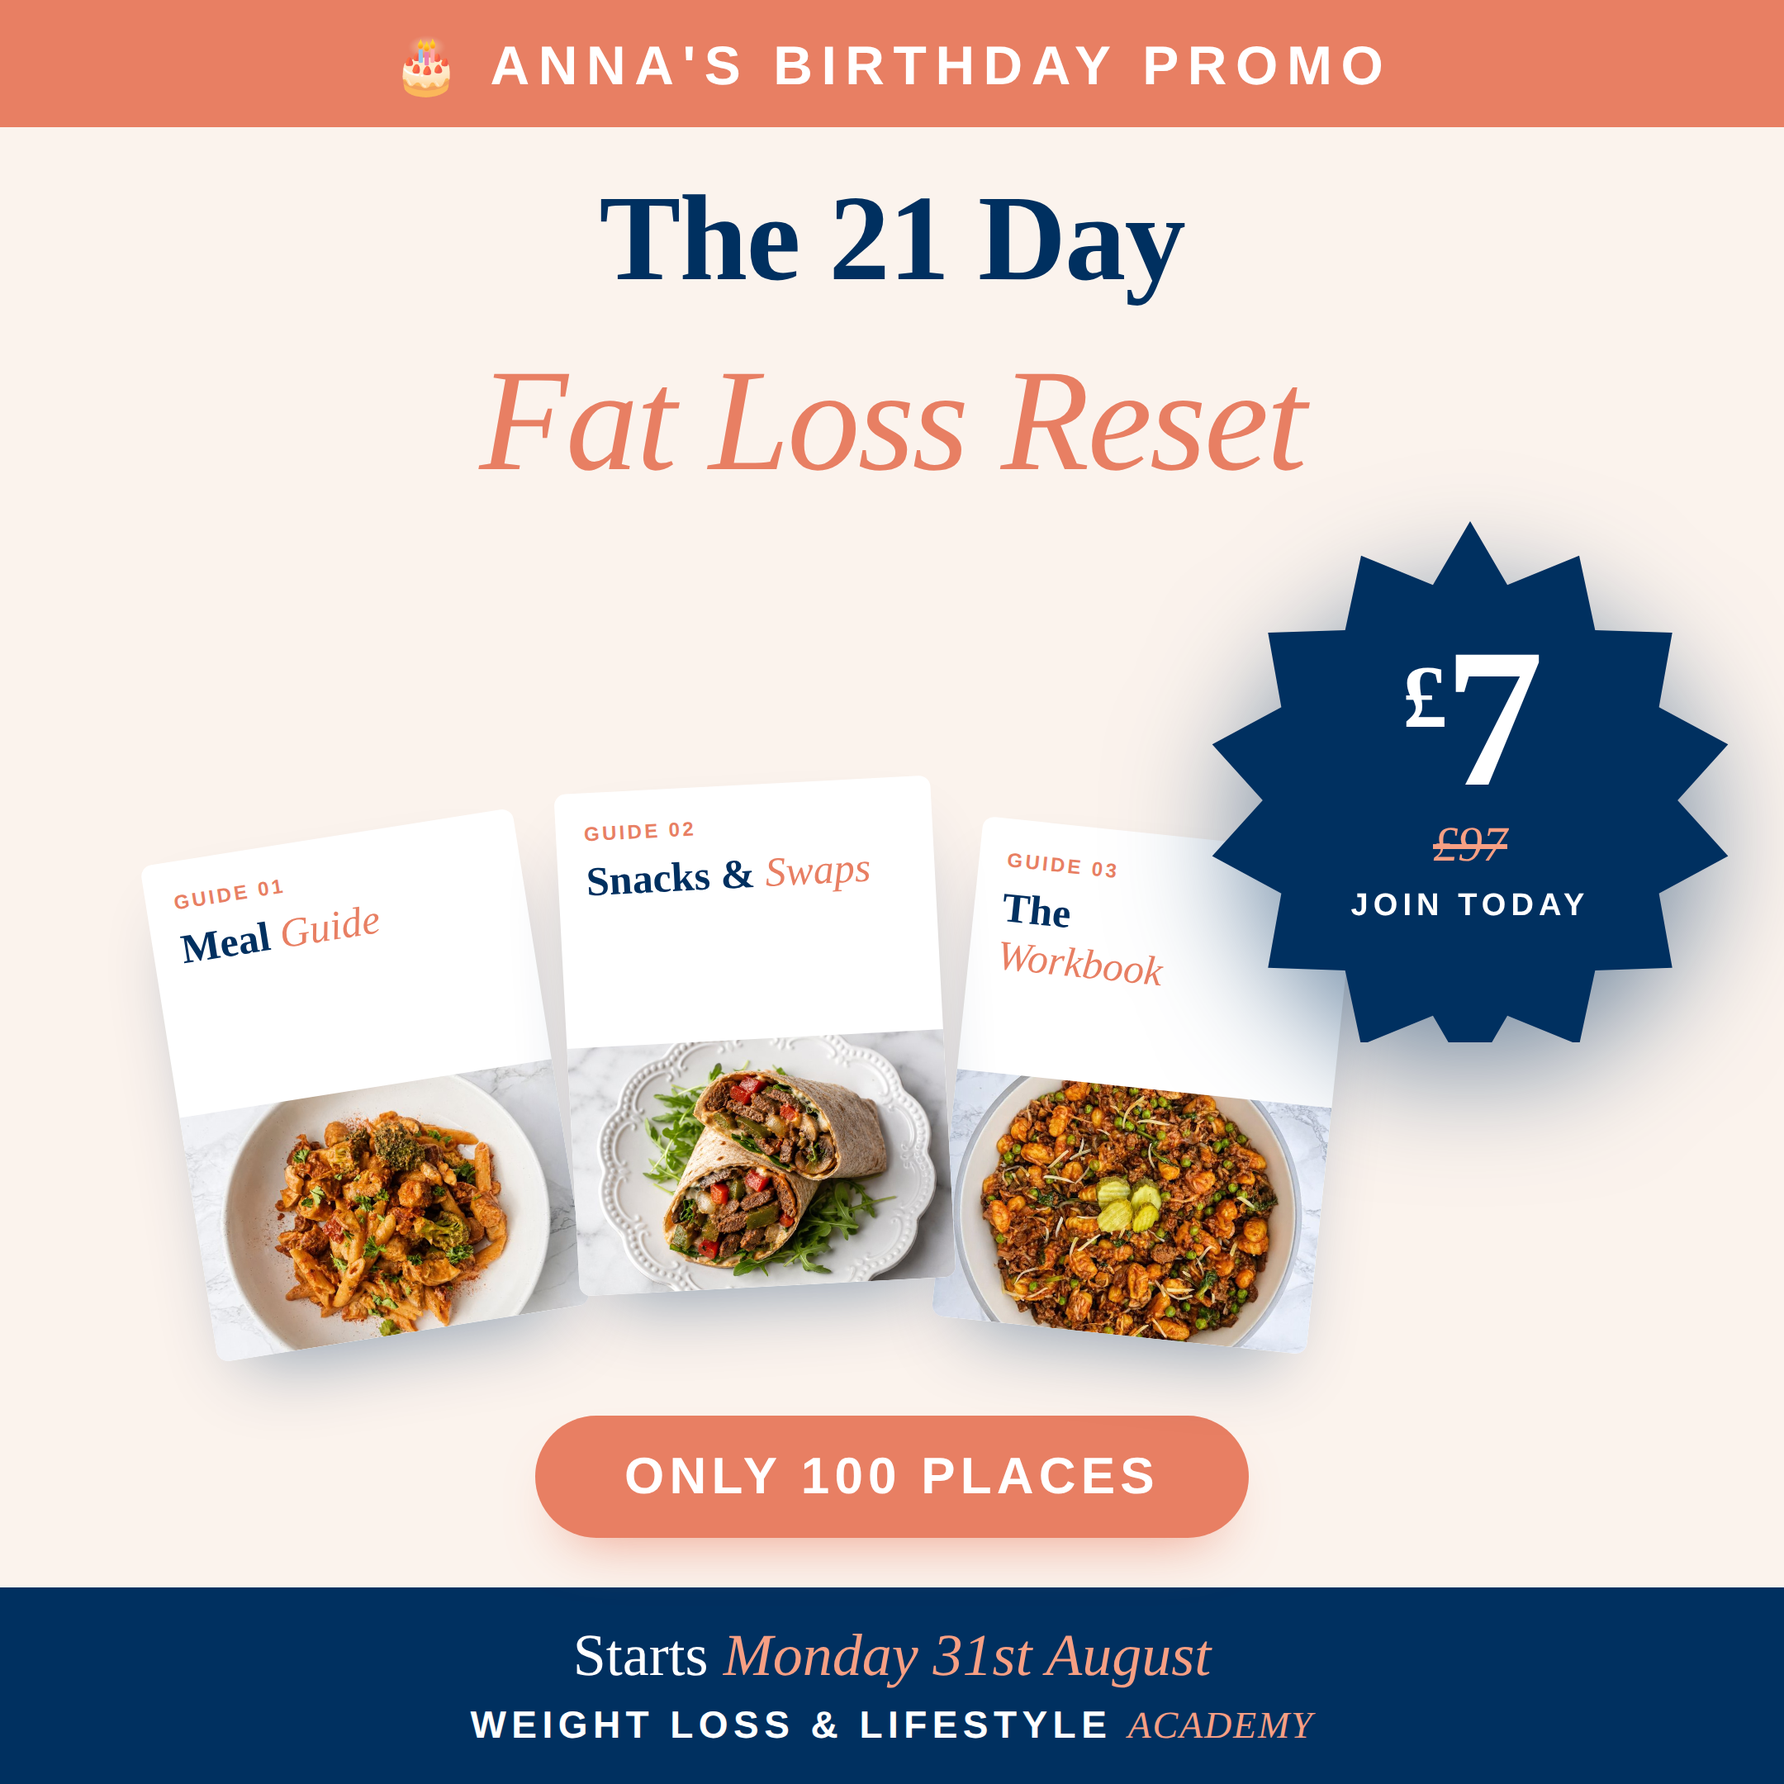
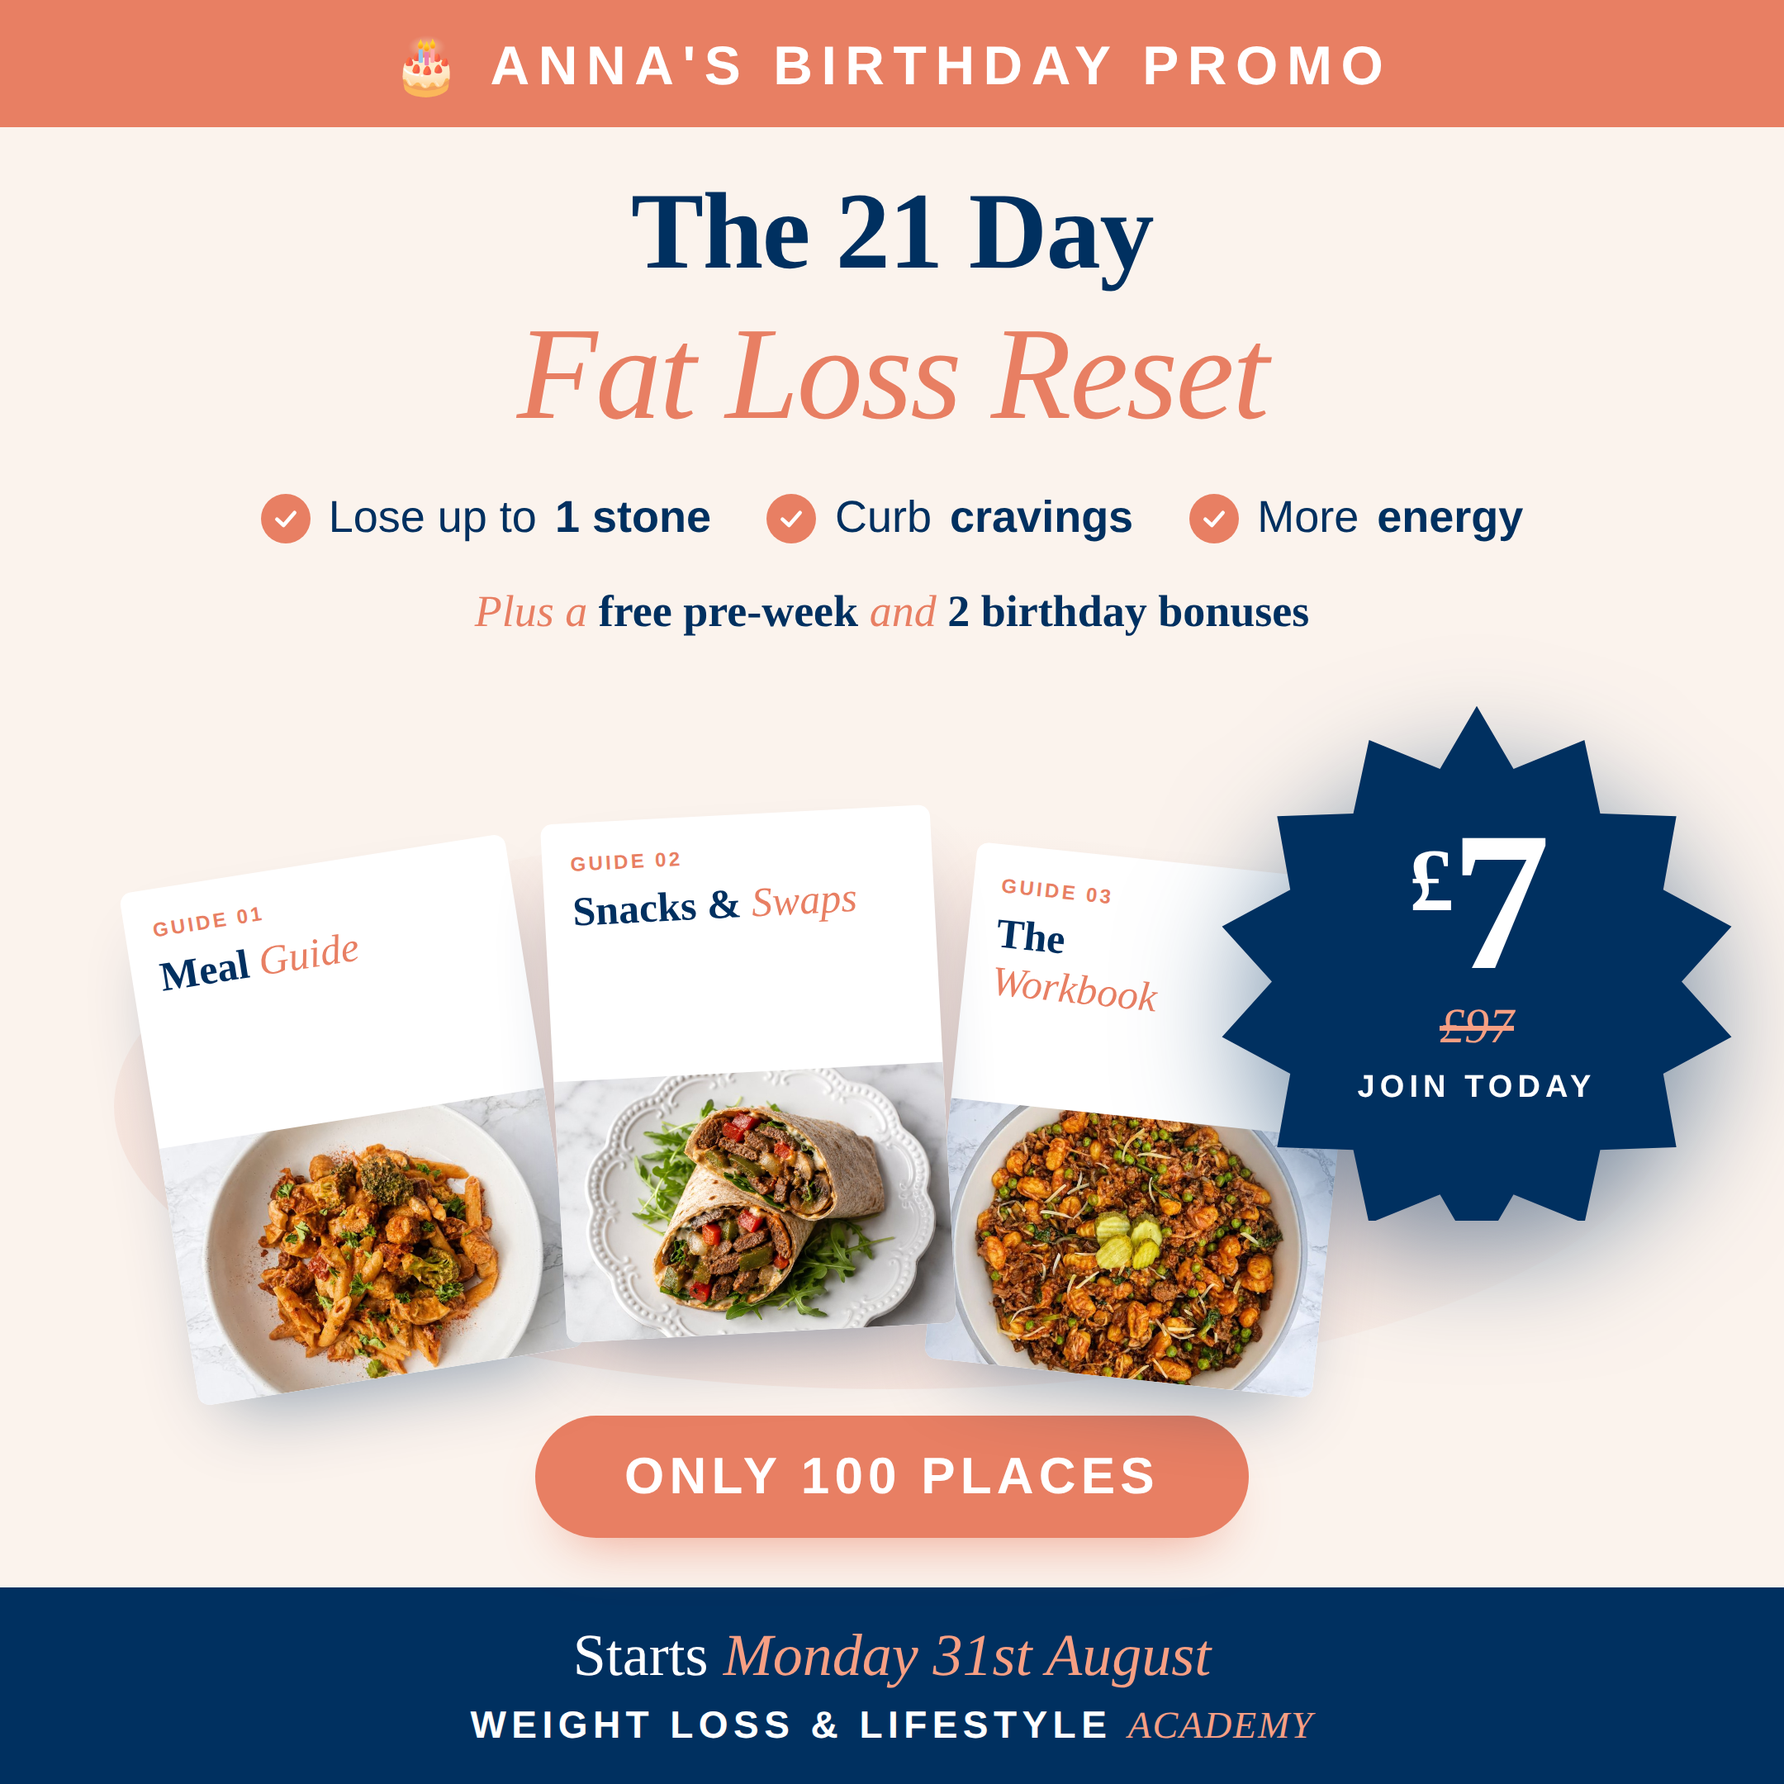
Promo graphic fill-out, plus the birthday last-chance ad (#335)
Fills out the standalone promo graphic (benefit row, bonuses line, soft ground behind the fan) and adds bday-promo/ad-square, the birthday version of the existing summer-challenge-ad last-chance square. App screens swapped for guide covers there, since the app is upsell-only.

diff --git a/bday-promo/ad-square/index.html b/bday-promo/ad-square/index.html
@@ -1,0 +1,244 @@
+<!doctype html>
+<html lang="en">
+<head>
+<meta charset="utf-8" />
+<meta name="viewport" content="width=device-width, initial-scale=1" />
+<title>WLA Birthday Promo · 21 Day Fat Loss Reset Ad (1080×1080 square)</title>
+<link rel="preconnect" href="https://fonts.googleapis.com">
+<link rel="preconnect" href="https://fonts.gstatic.com" crossorigin>
+<link href="https://fonts.googleapis.com/css2?family=Libre+Baskerville:ital,wght@0,400;0,700;1,400&family=Alegreya+Sans:ital,wght@0,400;0,500;0,700;0,800;1,400&display=swap" rel="stylesheet">
+<style>
+  :root {
+    --navy: #0e2746; --navy-deep: #003060;
+    --coral: #d97757; --coral-soft: #e5917a; --coral-light: #F2A48B;
+    --cream: #F4EEE2; --cream-2: #E9DFD3; --beige-top: #E8DCC4;
+    --paper: #FDFBF8; --muted: #5a6478;
+  }
+  *, *::before, *::after { box-sizing: border-box; }
+  html, body { margin: 0; padding: 0; background: #2a2a2a; font-family: "Alegreya Sans", sans-serif; }
+  body { display: grid; place-items: center; min-height: 100vh; padding: 24px; }
+  .serif { font-family: 'Libre Baskerville', serif; }
+
+  /* 1080x1080 ad canvas */
+  .ad {
+    width: 1080px; height: 1080px;
+    position: relative;
+    background: #F8F2E5;
+    overflow: hidden;
+    box-shadow: 0 30px 80px rgba(0,0,0,0.5);
+    color: var(--navy-deep);
+    display: flex;
+    flex-direction: column;
+  }
+  @media (max-width: 1140px) {
+    body { padding: 12px; }
+    .ad { transform: scale(calc((100vw - 24px) / 1080)); transform-origin: top center; margin-bottom: calc((100vw - 24px) * (-1080 / 1080) + 24px); }
+  }
+
+  /* TOP BEIGE BANNER */
+  .top-banner {
+    background: linear-gradient(180deg, #EFE2CB 0%, #E8DCC4 100%);
+    text-align: center;
+    padding: 36px 40px;
+    position: relative;
+    border-bottom: 1px solid rgba(14,39,70,0.06);
+  }
+  /* subtle paper texture via overlapping subtle dots */
+  .top-banner::after {
+    content: '';
+    position: absolute;
+    inset: 0;
+    background-image:
+      radial-gradient(rgba(140,110,70,0.05) 1px, transparent 1px),
+      radial-gradient(rgba(140,110,70,0.04) 1px, transparent 1px);
+    background-size: 6px 6px, 11px 11px;
+    background-position: 0 0, 3px 3px;
+    pointer-events: none;
+  }
+  .top-banner-text {
+    font-family: 'Libre Baskerville', serif;
+    font-style: italic;
+    font-weight: 700;
+    color: var(--navy-deep);
+    font-size: 64px;
+    letter-spacing: -0.005em;
+    line-height: 1.1;
+    position: relative;
+    z-index: 1;
+  }
+
+  /* BODY */
+  .body {
+    flex: 1;
+    text-align: center;
+    padding: 38px 60px 0;
+    display: flex;
+    flex-direction: column;
+    align-items: center;
+    background: #F4EEE2;
+    position: relative;
+  }
+  .body::before {
+    content: '';
+    position: absolute;
+    inset: 0;
+    background-image:
+      radial-gradient(rgba(140,110,70,0.035) 1px, transparent 1px);
+    background-size: 8px 8px;
+    pointer-events: none;
+  }
+  .body > * { position: relative; z-index: 1; }
+
+  .title {
+    font-family: 'Libre Baskerville', serif;
+    font-weight: 700;
+    color: var(--navy-deep);
+    font-size: 56px;
+    line-height: 1.1;
+    letter-spacing: -0.005em;
+    margin: 0 0 22px;
+  }
+  .title em {
+    color: var(--coral-light);
+    font-style: italic;
+    font-weight: 500;
+  }
+
+  .urgency {
+    font-family: 'Libre Baskerville', serif;
+    color: var(--navy-deep);
+    font-size: 30px;
+    line-height: 1.35;
+    letter-spacing: 0.04em;
+    text-transform: uppercase;
+    margin: 0 0 18px;
+    font-weight: 400;
+  }
+  .urgency em { font-style: italic; font-weight: 700; }
+
+  .free-line {
+    font-family: 'Libre Baskerville', serif;
+    color: var(--navy-deep);
+    font-size: 46px;
+    line-height: 1.1;
+    font-weight: 700;
+    margin: 0 0 22px;
+  }
+  .free-line .big {
+    font-weight: 800;
+  }
+
+  /* IMAGE COLLAGE */
+  .collage {
+    position: relative;
+    width: 100%;
+    margin-top: 6px;
+    flex: 1;
+    min-height: 0;
+  }
+  .collage .card {
+    position: absolute;
+    background: #fff;
+    border: 3px solid #fff;
+    border-radius: 12px;
+    box-shadow: 0 18px 36px -16px rgba(14,39,70,0.35);
+    overflow: hidden;
+  }
+  .collage .card img {
+    width: 100%; height: 100%;
+    object-fit: cover; display: block;
+  }
+
+  /* fanned card positions */
+  .c1 { left: 4%;   top: 14%; width: 230px; height: 280px; transform: rotate(-14deg); z-index: 2; }
+  .c2 { left: 18%;  top: 4%;  width: 240px; height: 300px; transform: rotate(-7deg); z-index: 3; }
+  .c3 { left: 36%;  top: 0;   width: 240px; height: 300px; transform: rotate(0deg);  z-index: 4; }
+  .c4 { left: 54%;  top: 4%;  width: 240px; height: 300px; transform: rotate(7deg);  z-index: 3; }
+  .c5 { left: 68%;  top: 14%; width: 230px; height: 280px; transform: rotate(14deg); z-index: 2; }
+  /* foreground guide covers (the app is upsell-only, so it is not shown here) */
+  .collage .guide { position: absolute; width: 250px; height: 330px; background: #fff;
+    border-radius: 10px; box-shadow: 0 24px 46px -16px rgba(14,39,70,0.45);
+    overflow: hidden; display: flex; flex-direction: column; }
+  .collage .guide .g-top { padding: 20px 18px 0; flex: 1; }
+  .collage .guide .kicker { font-size: 13px; font-weight: 800; letter-spacing: .14em;
+    color: var(--coral); text-transform: uppercase; }
+  .collage .guide .g-title { font-family: 'Libre Baskerville', serif; color: var(--navy-deep);
+    font-weight: 700; font-size: 27px; line-height: 1.14; margin-top: 10px; }
+  .collage .guide .g-title i { color: var(--coral); font-weight: 400; }
+  .collage .guide .g-img { height: 164px; background-size: cover; background-position: center; }
+  .gA { left: 12%; top: 40%; transform: rotate(-6deg); z-index: 6; }
+  .gB { left: 37%; top: 36%; transform: rotate(0deg);  z-index: 8; }
+  .gC { left: 62%; top: 40%; transform: rotate(6deg);  z-index: 6; }
+
+  /* Small caption */
+  .product-caption {
+    position: absolute;
+    bottom: 20px; left: 0; right: 0;
+    text-align: center;
+    font-family: 'Libre Baskerville', serif;
+    font-style: italic;
+    color: var(--muted);
+    font-size: 14px;
+    z-index: 5;
+  }
+
+  /* BOTTOM NAVY BAR */
+  .bottom-bar {
+    background: var(--navy-deep);
+    color: #fff;
+    text-align: center;
+    padding: 24px 20px;
+    font-family: "Alegreya Sans", sans-serif;
+    font-weight: 800;
+    letter-spacing: 0.3em;
+    text-transform: uppercase;
+    font-size: 28px;
+  }
+  .bottom-bar .light { font-weight: 400; }
+</style>
+</head>
+<body>
+
+<div class="ad">
+
+  <div class="top-banner">
+    <div class="top-banner-text"><em>Anna's Birthday Promo</em> · Just £7</div>
+  </div>
+
+  <div class="body">
+
+    <h1 class="title serif">The 21 Day <em>Fat Loss</em> Reset</h1>
+
+    <div class="urgency"><em>Only 100</em> places<br/>Price <em>increases</em> when the promo ends</div>
+
+    <div class="free-line serif">Plus A Full Pre-Week &amp; 2 Bonuses <span class="big">FREE</span></div>
+
+    <div class="collage">
+      <div class="card c1"><img src="/assets/jill-before-after.jpg" alt="" /></div>
+      <div class="card c2"><img src="/assets/vicky-before-after.png" alt="" /></div>
+      <div class="card c3"><img src="/assets/anna-before-after.png" alt="" /></div>
+      <div class="card c4"><img src="/assets/barbara-before-after.png" alt="" /></div>
+      <div class="card c5"><img src="/assets/ruth-before-after.jpg" alt="" /></div>
+
+      <div class="guide gA">
+        <div class="g-top"><div class="kicker">Guide 01</div><div class="g-title">Meal <i>Guide</i></div></div>
+        <div class="g-img" style="background-image:url('/assets/members-recipe-03.jpg')"></div>
+      </div>
+      <div class="guide gB">
+        <div class="g-top"><div class="kicker">Guide 02</div><div class="g-title">Snacks &amp; <i>Swaps</i></div></div>
+        <div class="g-img" style="background-image:url('/assets/members-recipe-01.jpg')"></div>
+      </div>
+      <div class="guide gC">
+        <div class="g-top"><div class="kicker">Guide 03</div><div class="g-title">The <i>Workbook</i></div></div>
+        <div class="g-img" style="background-image:url('/assets/members-recipe-05.jpg')"></div>
+      </div>
+    </div>
+
+  </div>
+
+  <div class="bottom-bar">Starts <span class="light">Monday 31st August</span></div>
+
+</div>
+
+</body>
+</html>

diff --git a/bday-promo/promo-graphic.html b/bday-promo/promo-graphic.html
@@ -31,28 +31,42 @@
     font-weight:800;letter-spacing:.16em;font-size:33px;display:flex;align-items:center;justify-content:center;gap:14px}
 
   .body{flex:1;position:relative;padding:30px 40px 30px;display:flex;flex-direction:column;align-items:center;justify-content:space-between}
-  h1{font-family:"Libre Baskerville",serif;color:var(--navy);font-weight:700;font-size:74px;line-height:1.05;letter-spacing:-.01em}
-  h2{font-family:"Libre Baskerville",serif;color:var(--coral);font-style:italic;font-weight:400;font-size:88px;line-height:1.02;margin-top:2px;letter-spacing:-.015em}
+  h1{font-family:"Libre Baskerville",serif;color:var(--navy);font-weight:700;font-size:66px;line-height:1.04;letter-spacing:-.01em}
+  h2{font-family:"Libre Baskerville",serif;color:var(--coral);font-style:italic;font-weight:400;font-size:80px;line-height:1.02;margin-top:2px;letter-spacing:-.015em}
 
-  .stage{position:relative;width:1010px;height:508px}
+  /* benefit row */
+  .benefits{display:flex;gap:34px;justify-content:center;align-items:center;margin-top:20px}
+  .benefit{display:flex;align-items:center;gap:11px;font-size:27px;color:var(--navy);font-weight:500}
+  .benefit b{font-weight:800}
+  .benefit .tick{width:30px;height:30px;border-radius:50%;background:var(--coral);flex:0 0 30px;
+    display:flex;align-items:center;justify-content:center}
+  .benefit .tick svg{width:16px;height:16px;stroke:#fff;stroke-width:3.4;fill:none;stroke-linecap:round;stroke-linejoin:round}
+
+  .plusline{margin-top:16px;font-family:"Libre Baskerville",serif;font-style:italic;font-size:27px;color:var(--coral)}
+  .plusline b{font-style:normal;font-weight:700;color:var(--navy)}
+
+  .stage{position:relative;width:1010px;height:452px}
+  .stage::before{content:'';position:absolute;left:34px;right:34px;top:104px;bottom:6px;
+    background:radial-gradient(ellipse at 42% 58%, rgba(245,217,206,.95) 0%, rgba(245,217,206,.55) 46%, rgba(245,217,206,0) 72%);
+    border-radius:50%;z-index:0}
 
   /* fanned guide covers */
-  .guide{position:absolute;width:228px;height:304px;background:var(--paper);border-radius:7px;
+  .guide{position:absolute;width:236px;height:314px;background:var(--paper);border-radius:7px;
     box-shadow:0 24px 46px -20px rgba(0,48,96,.45);overflow:hidden;display:flex;flex-direction:column}
   .guide .g-top{padding:18px 17px 0;flex:1}
   .guide .kicker{font-size:12px;font-weight:800;letter-spacing:.14em;color:var(--coral);text-transform:uppercase}
   .guide .g-title{font-family:"Libre Baskerville",serif;color:var(--navy);font-weight:700;font-size:25px;line-height:1.14;margin-top:9px}
   .guide .g-title i{color:var(--coral);font-weight:400}
-  .guide .g-img{height:150px;background-size:cover;background-position:center}
+  .guide .g-img{height:158px;background-size:cover;background-position:center}
 
-  .g1{left:72px;top:180px;transform:rotate(-9deg);z-index:1}
-  .g2{left:308px;top:150px;transform:rotate(-3deg);z-index:3}
-  .g3{left:544px;top:180px;transform:rotate(6deg);z-index:2}
+  .g1{left:60px;top:126px;transform:rotate(-9deg);z-index:1}
+  .g2{left:300px;top:98px;transform:rotate(-3deg);z-index:3}
+  .g3{left:540px;top:126px;transform:rotate(6deg);z-index:2}
   /* the burst sits over this card's right edge, so keep its title clear of it */
   .g3 .g-top{padding-right:74px}
 
   /* starburst price, top right, as on the reference */
-  .burst{position:absolute;right:-6px;top:-16px;width:322px;height:322px;z-index:9;
+  .burst{position:absolute;right:-8px;top:26px;width:318px;height:318px;z-index:9;
     filter:drop-shadow(0 22px 34px rgba(0,48,96,.5))}
   .burst .txt{position:absolute;inset:0;display:flex;flex-direction:column;align-items:center;justify-content:center;color:#fff}
   .burst .amt{font-family:"Libre Baskerville",serif;font-weight:700;font-size:120px;line-height:.92;letter-spacing:-.03em}
@@ -77,6 +91,13 @@
     <h1>The 21 Day</h1>
     <h2>Fat Loss Reset</h2>
 
+    <div class="benefits">
+      <div class="benefit"><span class="tick"><svg viewBox="0 0 24 24"><polyline points="4 12.5 10 18 20 6.5"/></svg></span>Lose up to <b>1 stone</b></div>
+      <div class="benefit"><span class="tick"><svg viewBox="0 0 24 24"><polyline points="4 12.5 10 18 20 6.5"/></svg></span>Curb <b>cravings</b></div>
+      <div class="benefit"><span class="tick"><svg viewBox="0 0 24 24"><polyline points="4 12.5 10 18 20 6.5"/></svg></span>More <b>energy</b></div>
+    </div>
+    <div class="plusline">Plus a <b>free pre-week</b> and <b>2 birthday bonuses</b></div>
+
     <div class="stage">
       <div class="guide g1">
         <div class="g-top"><div class="kicker">Guide 01</div><div class="g-title">Meal <i>Guide</i></div></div>
@@ -91,7 +112,7 @@
         <div class="g-img" style="background-image:url('/assets/members-recipe-05.jpg')"></div>
       </div>
       <div class="burst">
-        <svg viewBox="0 0 200 200" width="322" height="322"><polygon fill="#003060" points="100,4 114,28 141,17 147,45 176,46 171,74 197,88 178,109 197,130 171,144 176,172 147,173 141,201 114,190 100,214 86,190 59,201 53,173 24,172 29,144 3,130 22,109 3,88 29,74 24,46 53,45 59,17 86,28"/></svg>
+        <svg viewBox="0 0 200 200" width="318" height="318"><polygon fill="#003060" points="100,4 114,28 141,17 147,45 176,46 171,74 197,88 178,109 197,130 171,144 176,172 147,173 141,201 114,190 100,214 86,190 59,201 53,173 24,172 29,144 3,130 22,109 3,88 29,74 24,46 53,45 59,17 86,28"/></svg>
         <div class="txt">
           <div class="amt"><sup>£</sup>7</div>
           <div class="was">£97</div>

diff --git a/README.md b/README.md
@@ -291,6 +291,18 @@ or Members' Area screens, since those belong to the upsell — and the scarcity 
 "ONLY 100 PLACES" rather than a places-left count, which should only appear once the
 figure is true.
 
+### Last-chance ad
+
+`bday-promo/ad-square/index.html` is the birthday version of the existing
+`summer-challenge-ad/last-chance-square` ad, so both campaigns share one layout: beige
+banner, title, urgency lines, fanned before/after collage, navy footer. Only the copy and
+the foreground cards differ. Exports are `assets/bday-promo-ad.png` (1080) and
+`assets/bday-promo-ad@2x.png` (2160).
+
+The summer ad puts a laptop and phone showing the app in the foreground. Those are
+replaced here with three guide covers, because the app is part of the upsell rather than
+the £7 reset.
+
 ### Recipe photos
 
 The WLA Members' Area block showcases five recipe photos. Drop these files into `/assets/`:
